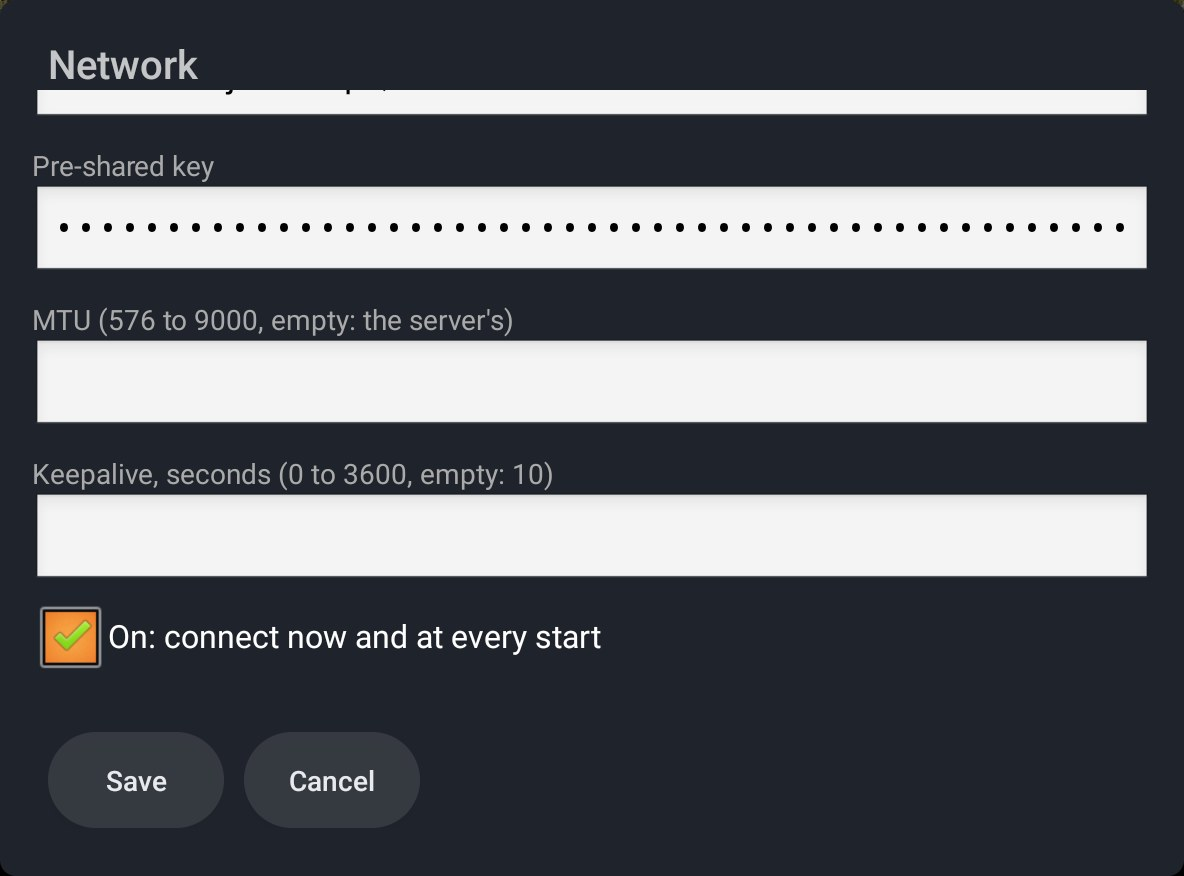
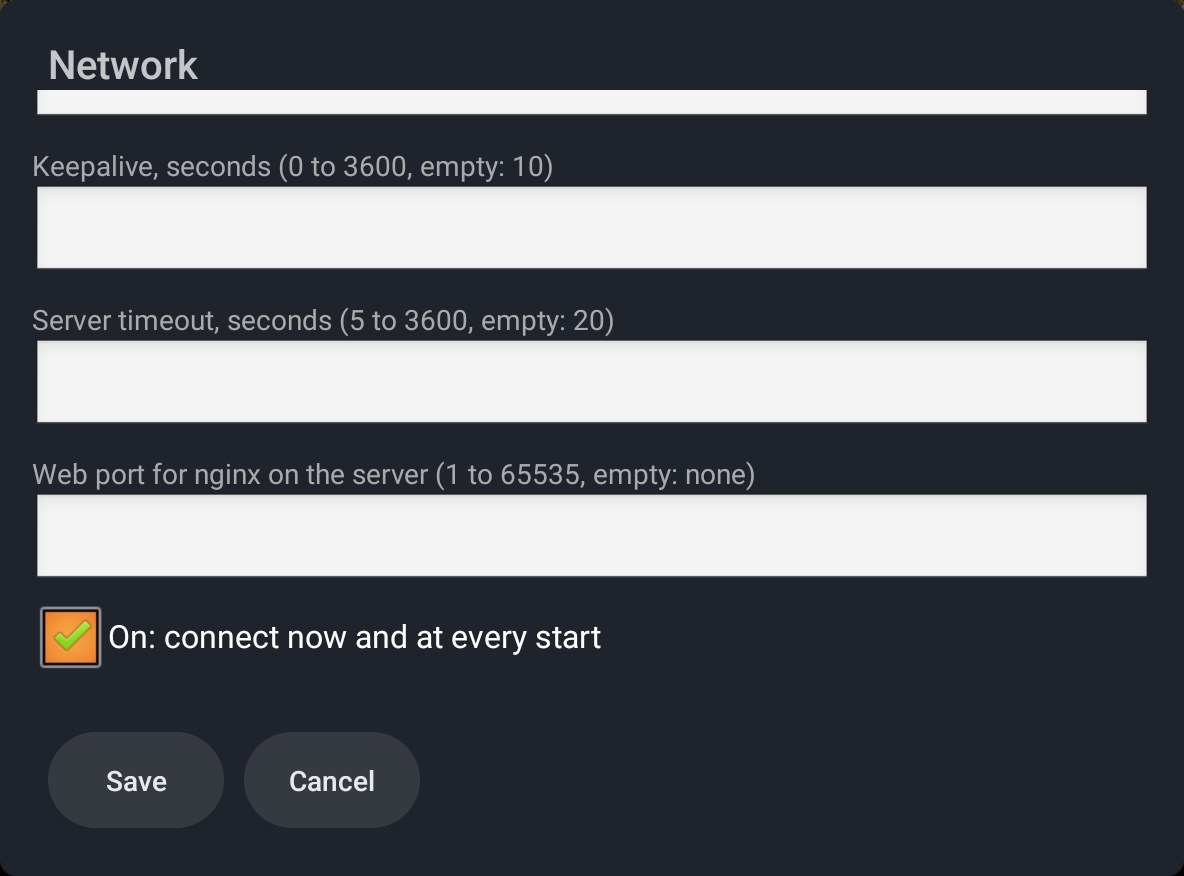
docs: Network screenshots retaken on 2.23.0 (server timeout and web port)
The server address and public key in the shots are examples typed for the picture;
the dialog was cancelled, the box keeps its real settings.

diff --git a/README.ru.md b/README.ru.md
@@ -93,7 +93,7 @@
 
 <p align="center">
   <img src="screenshots/network.jpg" alt="Окно Network на ТВ-приставке: подключено, сервер и имя клиента" width="400">
-  <img src="screenshots/network_more.jpg" alt="Окно ниже: общий ключ, MTU, keepalive и On" width="400">
+  <img src="screenshots/network_more.jpg" alt="Конец окна: keepalive, таймаут сервера, веб-порт и On" width="400">
 </p>
 
 При первом подключении Android один раз спрашивает согласие на VPN (системное окно). Устройству без человека рядом согласие дают через adb при настройке, без окна; оно сохраняется после перезагрузки (root не нужен):

diff --git a/README.md b/README.md
@@ -93,7 +93,7 @@ Decoder has a tunnel built in, [OpenIPC camex](https://github.com/OpenIPC/camex)
 
 <p align="center">
   <img src="screenshots/network.jpg" alt="The Network dialog on a TV box: connected, the server and the client name" width="400">
-  <img src="screenshots/network_more.jpg" alt="The rest of the dialog: the pre-shared key, MTU, keepalive and On" width="400">
+  <img src="screenshots/network_more.jpg" alt="The end of the dialog: keepalive, server timeout, web port and On" width="400">
 </p>
 
 The first connection asks Android for the VPN consent once (a system dialog). A device without a person at it gets the consent over adb while it is set up, with no dialog ever, and it survives reboots (no root needed):
